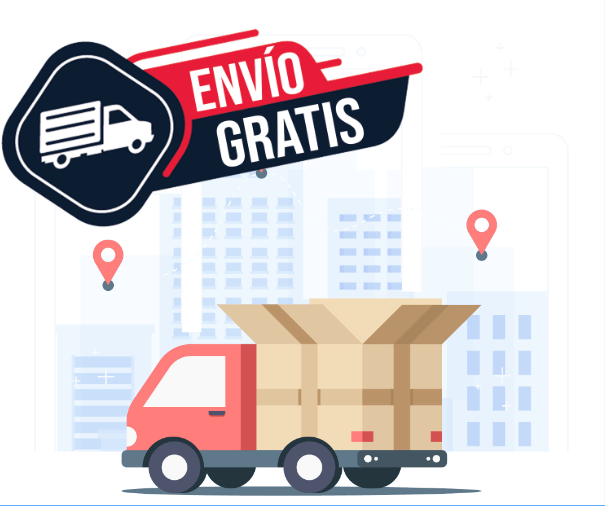
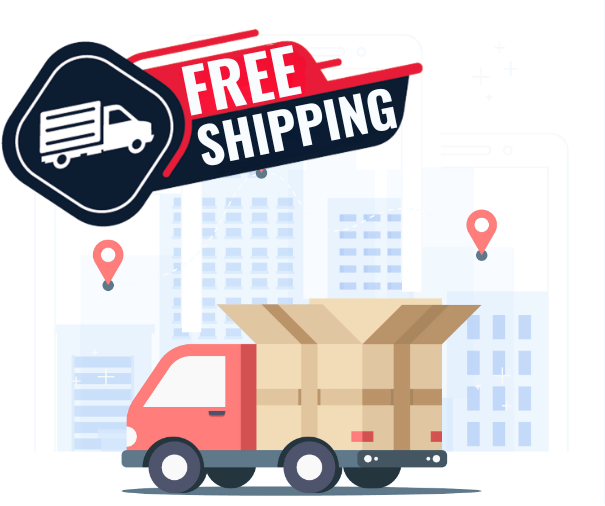
Idioma corregido
corregí el idioma de home, aun se usaba el español en ciertas áreas, incluidas una imagen, así que ya todo esta en ingles como se había sugerido

Changed region(s): [[0.2975, 0.0889, 0.6545, 0.3261]]

diff --git a/Client/src/components/Home/Home.jsx b/Client/src/components/Home/Home.jsx
@@ -117,21 +117,21 @@ export default function Home() {
 				</div>
 			</div>
 			<div className='products-section'>
-				<div className='products-title'>Mas Vendidos</div>
+				<div className='products-title'>Best Sellers</div>
 				<div className='product-carousel'>
 					{/* inserta los producto de cards aqui */}
 				</div>
-				<div className='products-title'>Nuevos</div>
+				<div className='products-title'>New</div>
 				<div className='product-carousel'>
 					{/* inserta los producto de cards aqui*/}
 				</div>
 			</div>
 			<div className='shipping-info'>
 				<div className='free-shipping'>
-					<img className='img-envio' src='/envios.png' alt='envio gratis' />
+					<img className='img-envio' src='/Envios.png' alt='envio gratis' />
 				</div>
 				<div className='international-shipping'>
-					<h2>Envios internacionales</h2>
+					<h2>International Shipping</h2>
 					<p>
 						Lorem ipsum dolor, sit amet consectetur adipisicing elit. Dolorum
 						suscipit perferendis tenetur aliquid sit similique nam, voluptate
